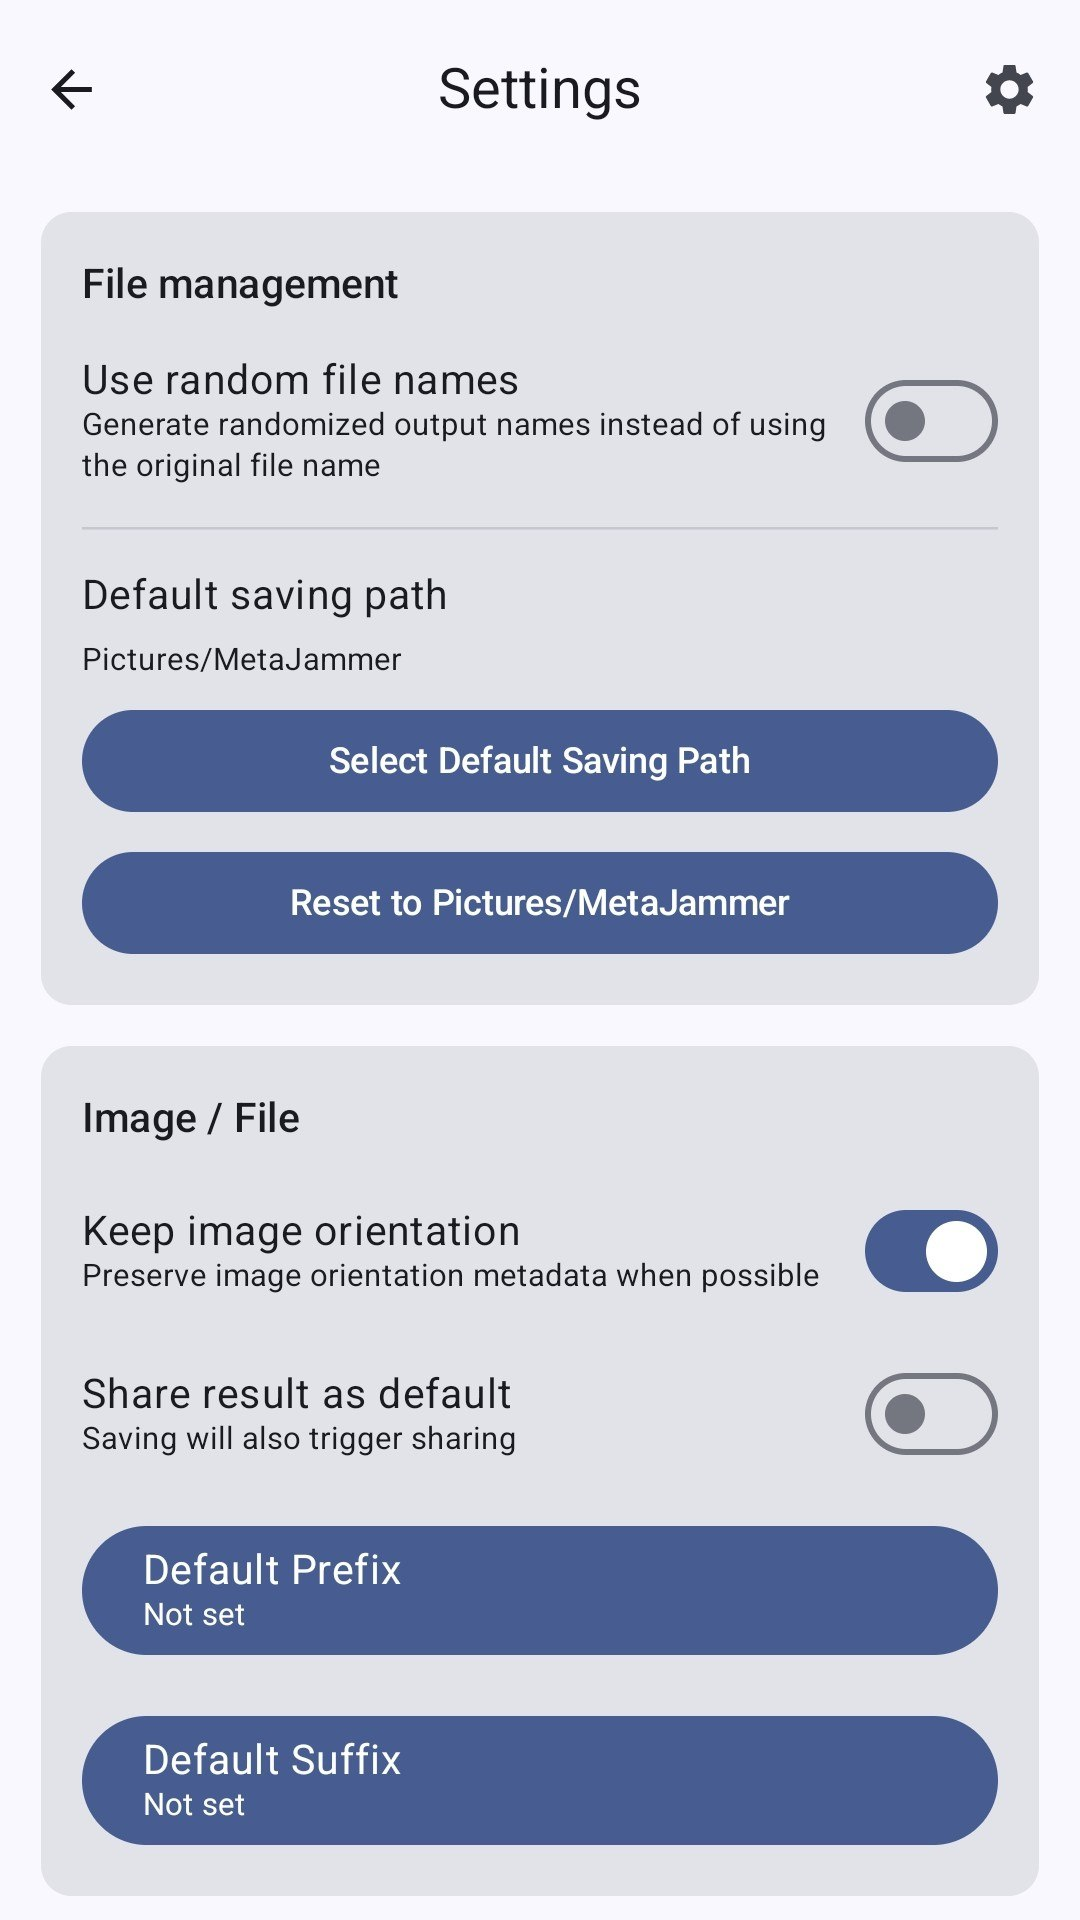
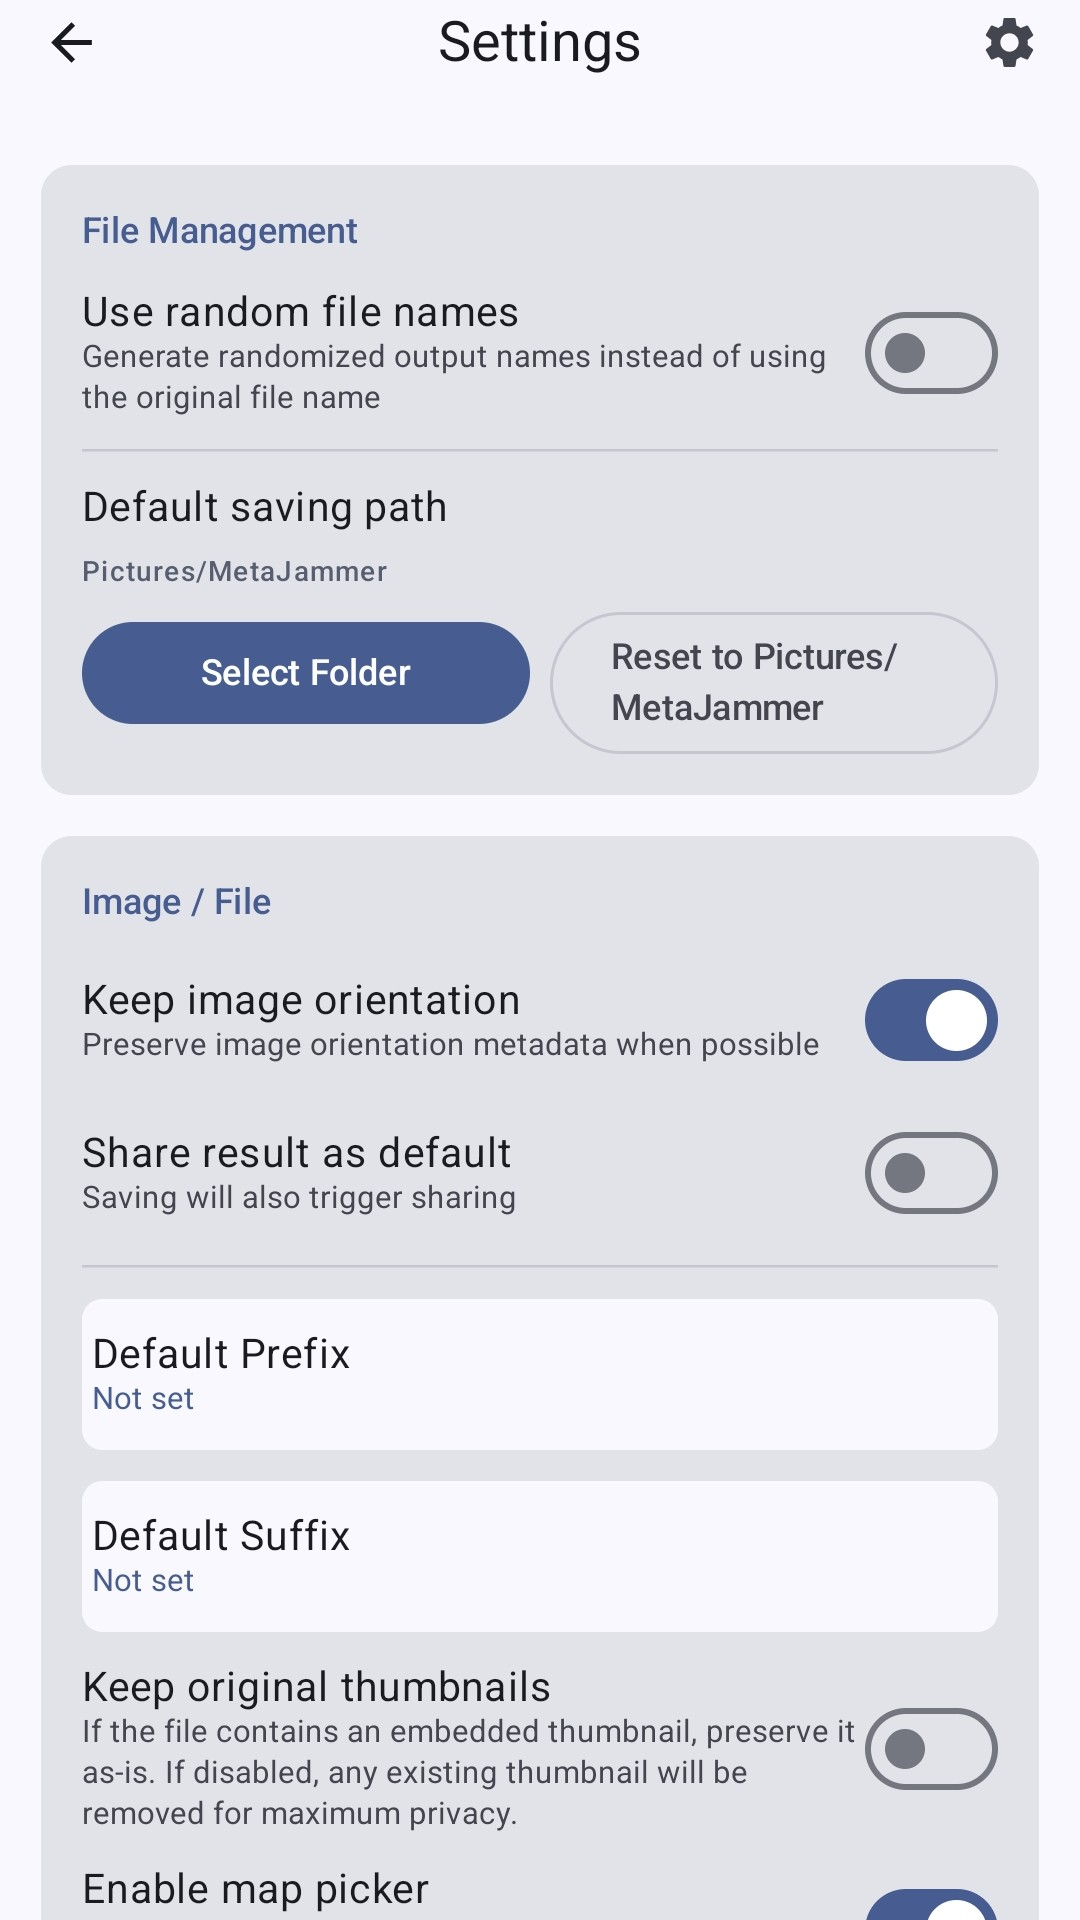
Update README.md

diff --git a/README.md b/README.md
@@ -14,7 +14,8 @@
 - **⚡ Quick Scrub & Share:** A "truly invisible" workflow. Share a file to MetaJammer, let it auto-process, and immediately re-open the share sheet with the clean version.
 - **📦 Background Batch Processing:** Reliable processing for 50+ high-resolution files at once using Android WorkManager, complete with system notifications.
 - **📂 Flexible Output:** Save to custom folders via SAF, use standard MediaStore collections, or share directly to other apps.
-- **🖼️ Multi-Format Support:** Full compatibility with modern formats including JPEG, WebP, and HEIF/HEIC.
+- **🖼️ Multi-Format Support:** Full compatibility with modern image formats (JPEG, WebP, HEIF/HEIC) and video containers (MP4, MOV).
+- **🎨 Modern & Accessible UI:** Built with Jetpack Compose and Material 3, featuring Dynamic Color support, a dedicated OLED black mode, and advanced theme scheduling.
 
 ## Privacy & Security
 
@@ -22,7 +23,7 @@ MetaJammer is built on the **Principle of Least Privilege**:
 
 - **Zero Broad Permissions:** The app requires NO `READ_EXTERNAL_STORAGE` or `WRITE_EXTERNAL_STORAGE` permissions. It uses modern Scoped Storage and SAF.
 - **Opt-in Internet:** Internet access is strictly restricted to the optional Map Picker and is only active after explicit user consent.
-- **Hardened I/O:** Every filename is sanitized to prevent path-traversal attacks.
+- **Hardened I/O:** Every filename is sanitized and processing is isolated to specific subdirectories to prevent path-traversal or unauthorized access.
 - **No Cloud Leaks:** Android Auto-Backup is disabled to ensure unstripped metadata never leaves your device during processing.
 - **Automatic Cleanup:** All temporary processing residue is programmatically wiped from the cache after every session.
 